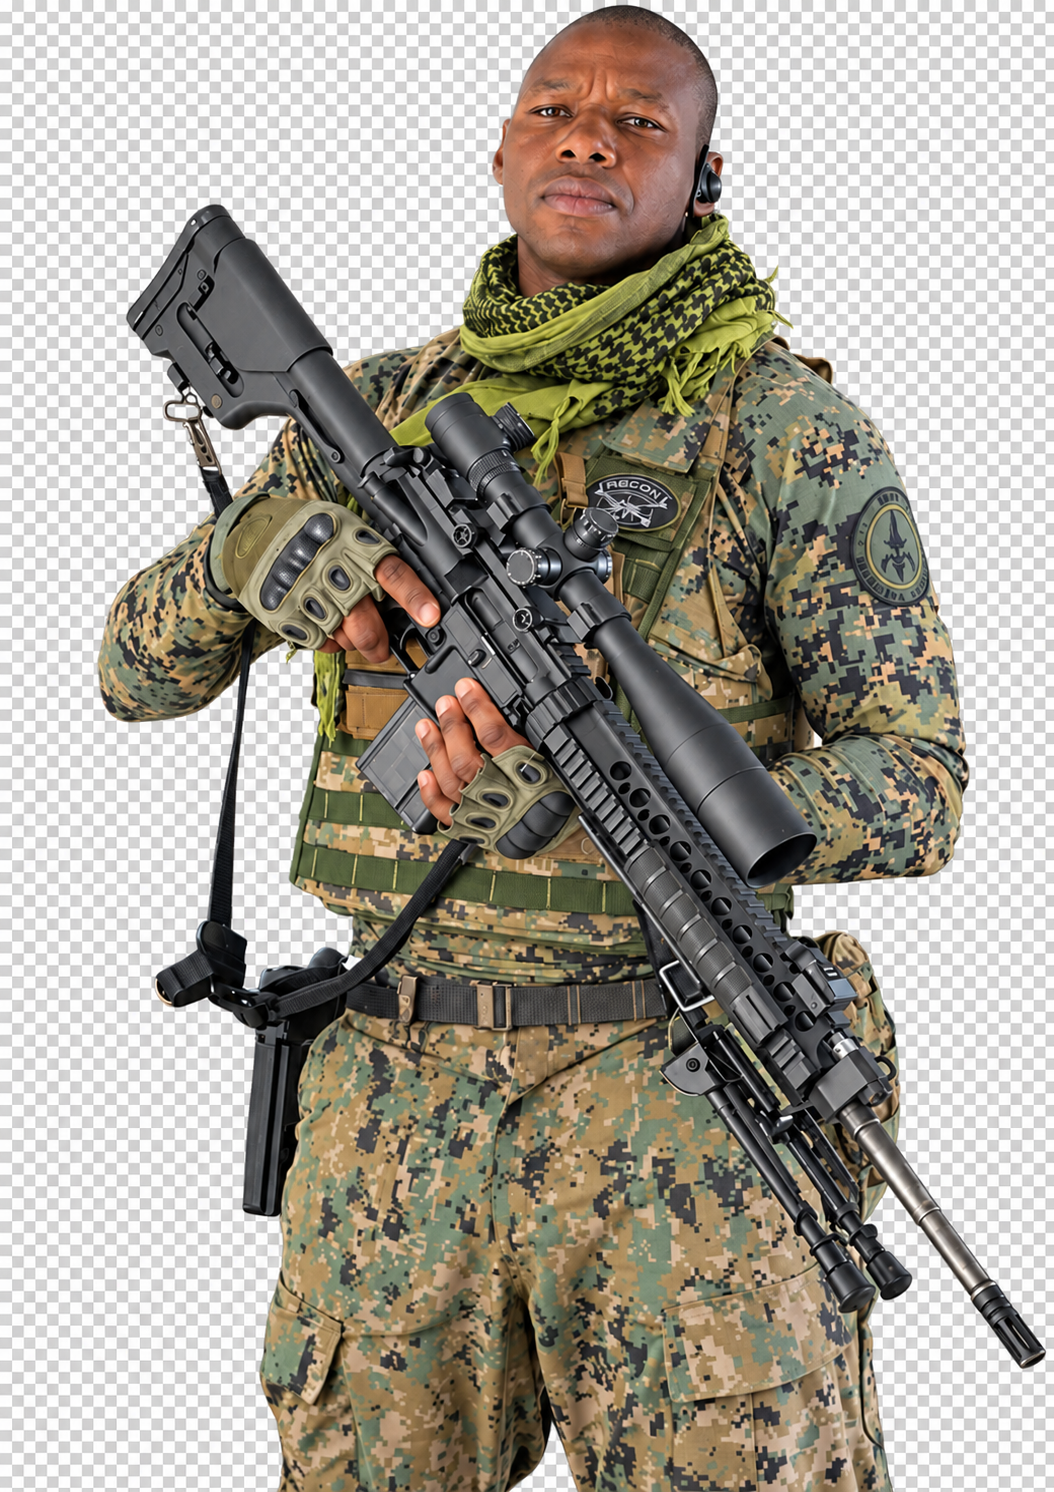
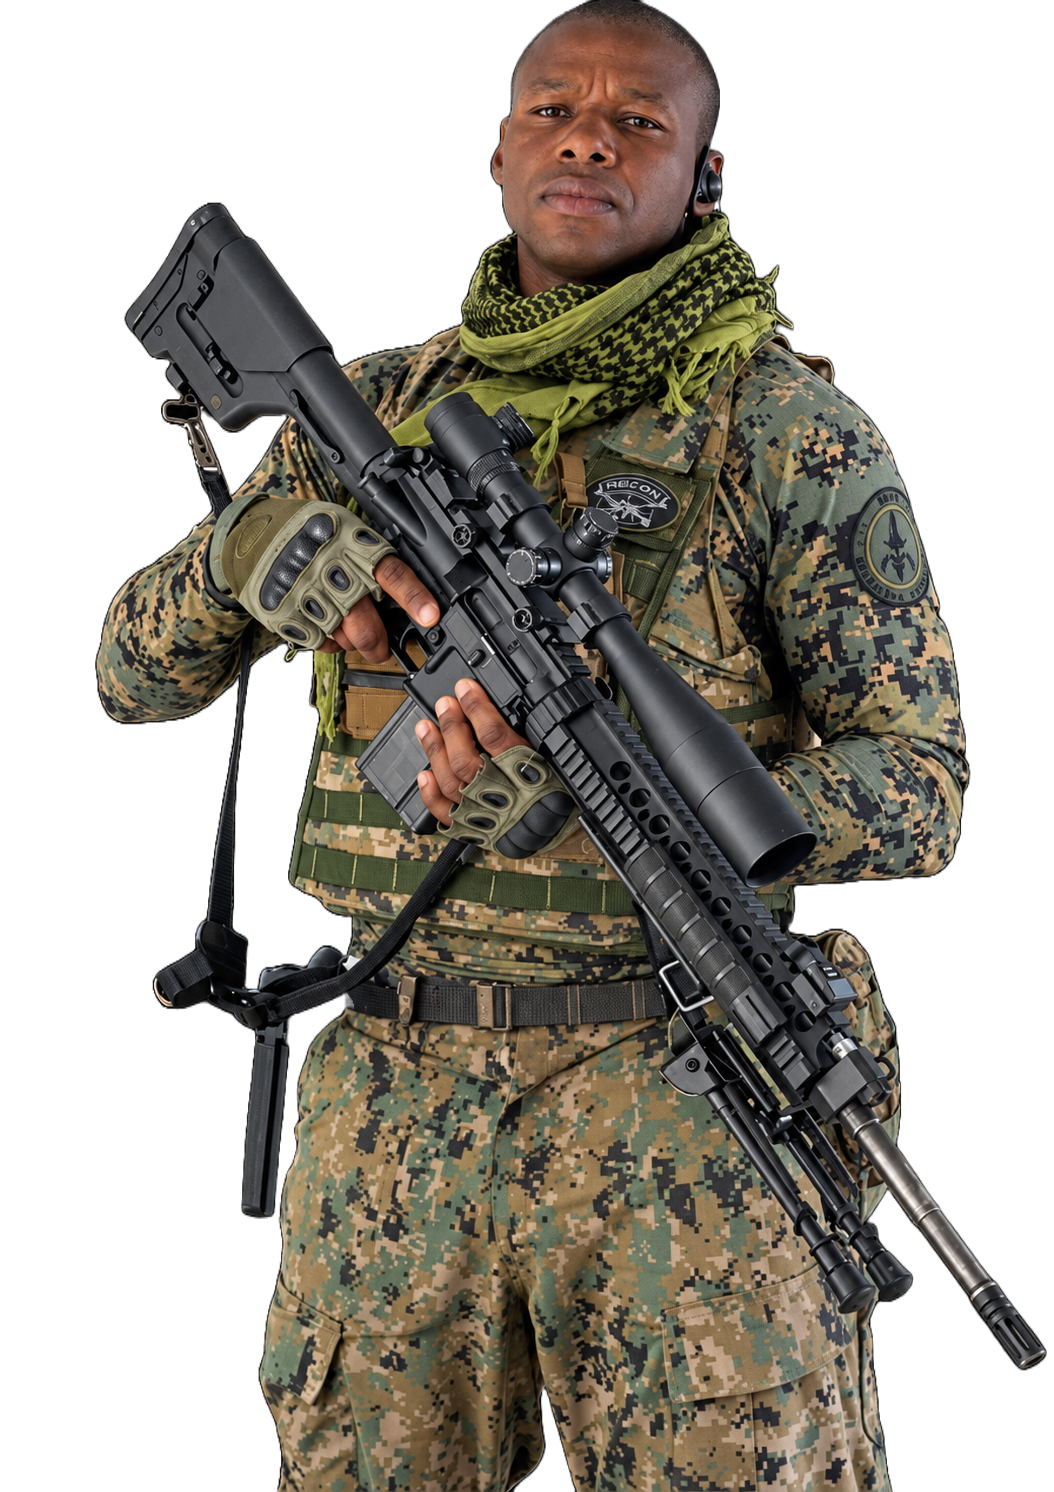
Use transparent Wallace portrait without cropping

diff --git a/app/globals.css b/app/globals.css
@@ -83,11 +83,11 @@ em{font-style:normal;color:var(--red)}
 .profile-index{position:absolute;z-index:4;left:-35px;top:36px;font:700 9rem "rift";color:var(--red);opacity:.9}
 .profile-name-vertical{position:absolute;right:-44px;top:60px;writing-mode:vertical-rl;font:700 5rem "rift";letter-spacing:.08em;color:#ffffff0a}
 .profile-wallace{grid-template-columns:42% 58%}
-.profile-wallace .profile-portrait{grid-column:2;grid-row:1}
+.profile-wallace .profile-portrait{grid-column:2;grid-row:1;padding-top:clamp(24px,3vw,44px)}
 .profile-wallace .profile-info{grid-column:1;grid-row:1;margin:0 -70px 64px 0;padding:48px 58px 35px 0;background:linear-gradient(270deg,#171313ee 0%,#171313 65%,transparent);border-left:0;border-right:2px solid var(--red);text-align:right}
 .profile-wallace .profile-info p{margin-left:auto}.profile-wallace .profile-line{margin-left:auto}
 .profile-wallace .profile-index{left:auto;right:-35px}.profile-wallace .profile-name-vertical{right:auto;left:-44px}
-.profile-wallace .profile-portrait img{object-position:center top}
+.profile-wallace .profile-portrait img{object-fit:contain;object-position:center top;transform:none}
 
 .film-section{background:#111;padding:0 6vw 140px}.film-frame{position:relative;max-width:1320px;height:min(72vw,760px);min-height:520px;margin:auto;overflow:hidden;background:#231e1e}.film-frame video{width:100%;height:100%;object-fit:cover;display:block;filter:saturate(.75) contrast(1.08)}.film-shade{position:absolute;inset:0;background:linear-gradient(90deg,#111d 0%,#11155 52%,transparent 100%),linear-gradient(0deg,#111b 0%,transparent 48%)}.film-copy{position:absolute;z-index:2;left:7%;bottom:9%}.film-copy>span{font:700 11px "termina";letter-spacing:.15em;text-transform:uppercase;color:var(--red)}.film-copy h2{font-size:clamp(3.8rem,7vw,7.5rem);line-height:.78;letter-spacing:-.035em;margin:20px 0 0}.film-counter{position:absolute;z-index:2;right:3%;top:6%;writing-mode:vertical-rl;font:400 10px "space-mono";letter-spacing:.14em;color:#ffffff88}.course-gallery{background:var(--cream);color:var(--ink);padding:140px 0 160px;overflow:hidden}
 .gallery-head{max-width:530px;margin:0 10vw 80px}.gallery-head h2{font-size:clamp(4.5rem,8vw,8rem);line-height:.78;letter-spacing:-.035em;margin:24px 0}.gallery-head>p:last-child{color:#6d6666;line-height:1.7}
